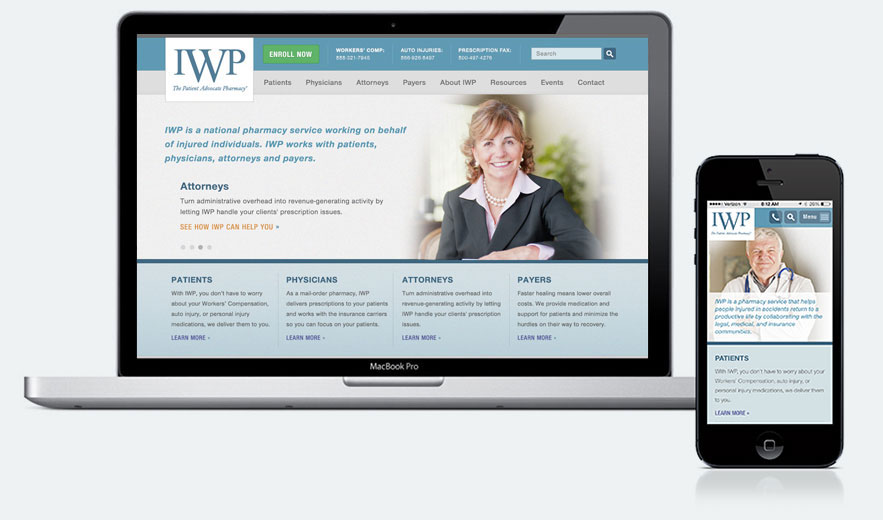
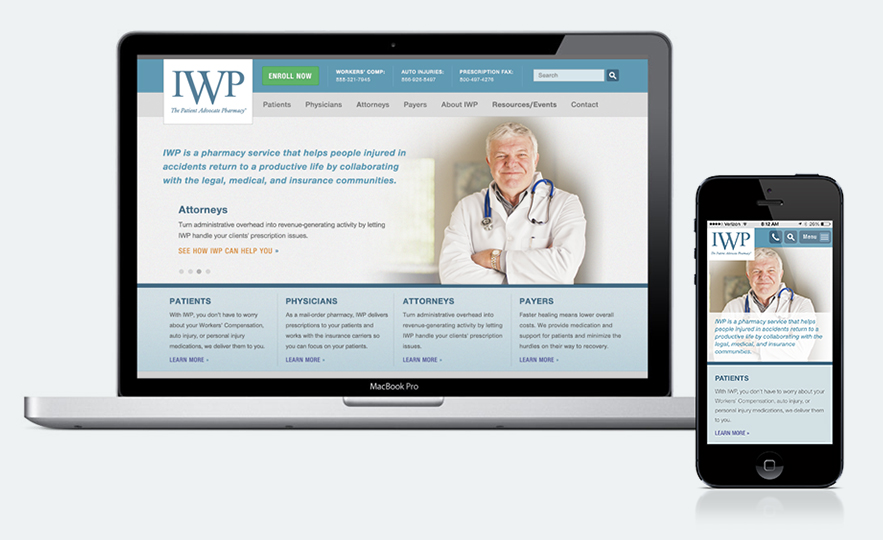
New IWP page + Large website screenshots

Changed region(s): [[0.0306, 0.0, 0.9785, 0.9231], [0.7644, 0.8615, 0.795, 0.8923]]

diff --git a/iwp.html b/iwp.html
@@ -1,0 +1,108 @@
+<!DOCTYPE html>
+<html xmlns="http://www.w3.org/1999/xhtml">
+<head>
+<meta http-equiv="Content-Type" content="text/html; charset=UTF-8" />
+<title>kristin beno - portfolio // iwp</title>
+<link rel="icon" type="image/ico" href="favicon.ico"/>
+<link type="text/css" rel="stylesheet" href="css/styles.css"/>
+<link type="text/css" rel="stylesheet" href="css/style.css"/>
+<link href='http://fonts.googleapis.com/css?family=Lato:300,400,700,400italic,300,300italic,700italic' rel='stylesheet' type='text/css'>
+<link href='http://fonts.googleapis.com/css?family=Copse' rel='stylesheet' type='text/css'>
+<meta name="viewport" content="width=device-width, initial-scale=1.0, maximum-scale=1.0, user-scalable=no" />
+<script>
+  (function(i,s,o,g,r,a,m){i['GoogleAnalyticsObject']=r;i[r]=i[r]||function(){
+  (i[r].q=i[r].q||[]).push(arguments)},i[r].l=1*new Date();a=s.createElement(o),
+  m=s.getElementsByTagName(o)[0];a.async=1;a.src=g;m.parentNode.insertBefore(a,m)
+  })(window,document,'script','//www.google-analytics.com/analytics.js','ga');
+
+  ga('create', 'UA-23085576-1', 'kristinbeno.com');
+  ga('send', 'pageview');
+
+</script>
+
+</head>
+
+<body>
+
+<div class="wrapper">
+	<header>
+		<div class="logo center inner">
+			<a href="index.html"><img src="img/logo.png" onmouseover="this.src='img/logo-hover.png'" onmouseout="this.src='img/logo.png'" alt="home" /></a>
+		</div>	
+	</header>
+	
+	<div class="intro center">
+		<h1><span class="h1-highlight">IWP</span> Website</h1>
+		<ul>								
+	</div>	
+	
+	<div class="work inner">
+	<img src="img/iwp-display.jpg" class="center" width="100%">
+	
+	<div class="divider">
+	</div>	
+			
+	<!--First row-->
+	<div class="example-left center">
+		<img src="img/iwp-full.jpg" class="center">
+	</div>
+	
+	<div class="description-right">
+		<h2>Project Background</h2>
+		<p>IWP is a pharmacy service that helps people injured in accidents return to a productive life by collaborating with the legal, medical, and insurance communities. In addition to an updated website design, they came to my team looking to attract four distinct audiences; physicians, attorneys, partner organizations, and patients. With an improved user experience, IWP wanted to decrease unnecessary inbound calls from existing patients. </p>
+	</div>	
+						
+	<div class="clear">
+	</div>
+					
+	<!--Second row-->
+	<div class="example-right center">
+		<img src="img/iwp-style.jpg" class="center">
+	</div>
+	
+	<div class="description-left">
+		<h2>Style Tile</h2>
+		<p>In addition to an updated online presence, IWP was looking to refresh their brand's color palette for print and digital use. Since the website look and feel would would influence the portrayal of their identity across all media, we presented several style tile options showcasing text treatments, photography, colors and interface elements. </p>
+	</div>
+		
+	<div class="clear">
+	</div>
+											
+	<!--Third row-->
+						
+	<div class="example-left">
+		<img src="img/iwp-ipad.jpg" class="center">
+	</div>
+
+	<div class="description-right">
+		<h2>Responsive Design</h2>
+		<p>The IWP website was one of my first responsive website design projects at CTP. After completing the style tile phase of the project, the heading styles and other design elements were then mapped to wireframes my team had created. After a lot of experimentation and internal user-testing, we decided upon a mobile-friendly layout and navigation that we felt provided the best experience for IWP site users.</p>
+	</div>
+					
+	<div class="clear">
+	</div>
+	<p>*This website is no longer live.</p>
+						
+	<!--- End Work -->
+	
+	<div class="divider">
+	</div>
+					
+	<div class="viewmore">
+		&#171;<a class="viewmore" span-style="padding:0px;" href="fsg.html">Previous Project</a>  <span style="color:#8B8177;">|</span>  <a class="viewmore" href="redhat.html">Next Project</a>&#187;
+		</div>
+
+	</div>	
+	
+	<div class="push">		
+	</div>
+</div>	
+	
+<footer>
+	<a class="social" data-icon="d" href="http://linkedin.com/in/kristinbeno">&nbsp;LinkedIn</a>
+	<a class="social" data-icon="e" href="http://twitter.com/kristinbeno">&nbsp;Twitter</a>
+</footer>
+
+
+</body>
+</html>

diff --git a/_old/iwp_old.html b/_old/iwp_old.html
@@ -59,7 +59,7 @@
 				<!--First row-->
 			
 				<div class="example-left center">		
-					<img src="img/iwp-monitor.jpg" class="center">
+					<img src="img/iwp-full.jpg" class="center">
 				</div>
 			
 			
@@ -80,7 +80,7 @@
 				
 				<div class="description-left">
 					<h2>Style Tile</h2>
-						<p>With several one-off collateral pieces as inspiration, our challenge was to redesign their website incorporating a new color palette and overall look & feel. Not only did this template make it easy for the client to respond to specific user interface elements, but it gave them a general overview of our design recommendation. </p>
+						<p>In addition to an updated online presence, IWP was looking to refresh their brand's color palette for print and digital use. Since the website look and feel would would influence the portrayal of their identity across all media, we presented several style tile options showcasing text treatments, photography, colors and interface elements. </p>
 				</div>
 				
 				<div class="clear">

diff --git a/redhat.html b/redhat.html
@@ -46,7 +46,7 @@
 			
 	<!--First row-->
 	<div class="example-left center">
-		<img src="img/rhel-flexible.jpg" class="center">
+		<img src="img/rhel-full.jpg" class="center">
 	</div>
 	
 	<div class="description-right">
@@ -107,7 +107,7 @@
 	</div>
 					
 	<div class="viewmore">
-		&#171;<a class="viewmore" span-style="padding:0px;" href="fsg.html">Previous Project</a>  <span style="color:#8B8177;">|</span>  <a class="viewmore" href="lynch.html">Next Project</a>&#187;
+		&#171;<a class="viewmore" span-style="padding:0px;" href="iwp.html">Previous Project</a>  <span style="color:#8B8177;">|</span>  <a class="viewmore" href="lynch.html">Next Project</a>&#187;
 		</div>
 
 	</div>	

diff --git a/fsg.html b/fsg.html
@@ -101,7 +101,7 @@
 		</div>
 			
 		<div class="viewmore">
-			&#171;<a class="viewmore" span-style="padding:0px;" href="lahey.html">Previous Project</a>  <span style="color:#8B8177;">|</span>  <a class="viewmore" href="redhat.html">Next Project</a>&#187;
+			&#171;<a class="viewmore" span-style="padding:0px;" href="lahey.html">Previous Project</a>  <span style="color:#8B8177;">|</span>  <a class="viewmore" href="iwp.html">Next Project</a>&#187;
 		</div>
 	</div>
 </div>

diff --git a/lynch.html b/lynch.html
@@ -47,7 +47,7 @@
 
 		<!--First row-->
 		<div class="example-left center">	
-			<img src="img/lynch-project.jpg" class="center">	
+			<img src="img/lynch-full.jpg" class="center">	
 		</div>
 	
 		<div class="description-right">
@@ -78,7 +78,7 @@
 				
 		<!--Third row-->				
 		<div class="example-left center">
-			<img src="img/lynch-ipad.jpg" class="center">
+			<img src="img/lynch-project.jpg" class="center">
 		</div>
 		
 		<div class="description-right">

diff --git a/index.html b/index.html
@@ -98,6 +98,15 @@
 					</div>
 				<a href="fsg.html"><img class="thumb" src="img/sox.jpg" width="100%"></a>
 			</li>
+			<li>
+				<div class="title">
+					<h3><a class="client-title" href="iwp.html">IWP Pharmacy</a></h3>
+						<div class="work-type">
+							<h6><a href="iwp.html">website</a></h6>
+						</div>
+					</div>
+				<a href="iwp.html"><img class="thumb" src="img/iwp.jpg" width="100%"></a>
+			</li>
 					
 
 		</ul>

diff --git a/lahey.html b/lahey.html
@@ -53,7 +53,7 @@
 	<!--First row-->
 					
 		<div class="example-left center">
-			<img src="img/lahey-project.jpg" class="center">
+			<img src="img/lahey-full.jpg" class="center">
 		</div>
 	
 		<div class="description-right">
